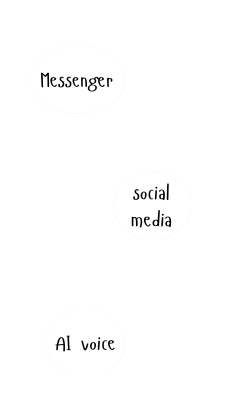
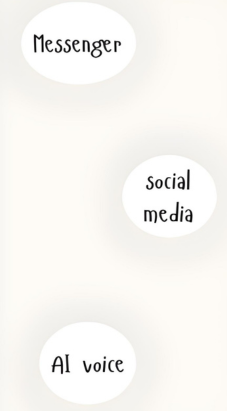
updates

diff --git a/public/index.html b/public/index.html
@@ -373,12 +373,12 @@
 			</div>
 
 		</div>
-		<img src="images/shape/Shape_02 (1).png" alt="" class="shapes shape_01" data-sal="slide-right"
+		<img src="images/shape/Shape_02 (1).png" alt="" class="shapes shape_01 mt-10" data-sal="slide-right"
 			data-sal-duration="500">
 	</div>
 
 	<div class="image-container" style="width: 100%; background-color: white; padding: 0; margin: 0;">
-		<img src="images/Main-page-images/AFter-Features-img.jpg" alt="Feature Image"
+		<img src="images/Main-page-images/After Faetures .png" alt="Feature Image"
 			style="width: 85%; height: auto; display: block; margin: 0 auto; border-radius: 30px;">
 	</div>
 

diff --git a/public/about-us.html b/public/about-us.html
@@ -156,7 +156,7 @@
 		=====================================================
 		-->
 		<div class="inner-banner-one mt-110 xl-mt-90"
-			style="background-image: url(images/About-Us-images/image-3.png); height: 100vh;">
+			style="background-image: url(images/About-Us-images/image-3.png); height: 100vh ;">
 			<div class="container">
 				<!-- <h2>ABOUT US</h2> -->
 			</div>

diff --git a/public/css/style.min.css b/public/css/style.min.css
@@ -4901,7 +4901,7 @@ background: linear-gradient(135deg, #5fa3db, #7fcfce, #8ed1cd);
 
 .block-feature-one .shape_01 {
   left: 0;
-  top: 38%;
+  top: 43%;
   max-width: 31%;
 }
 
